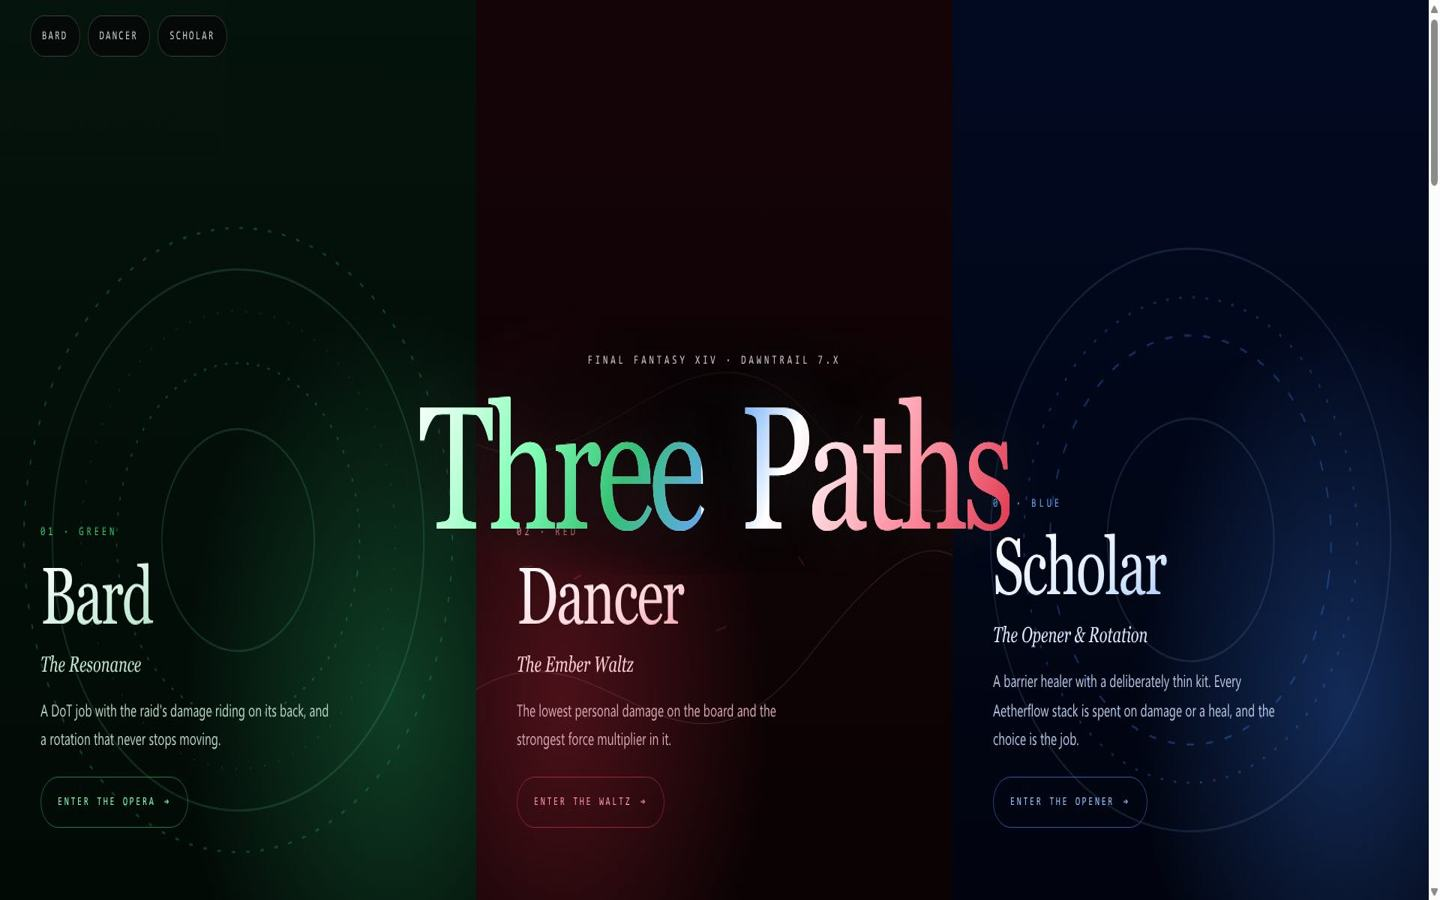
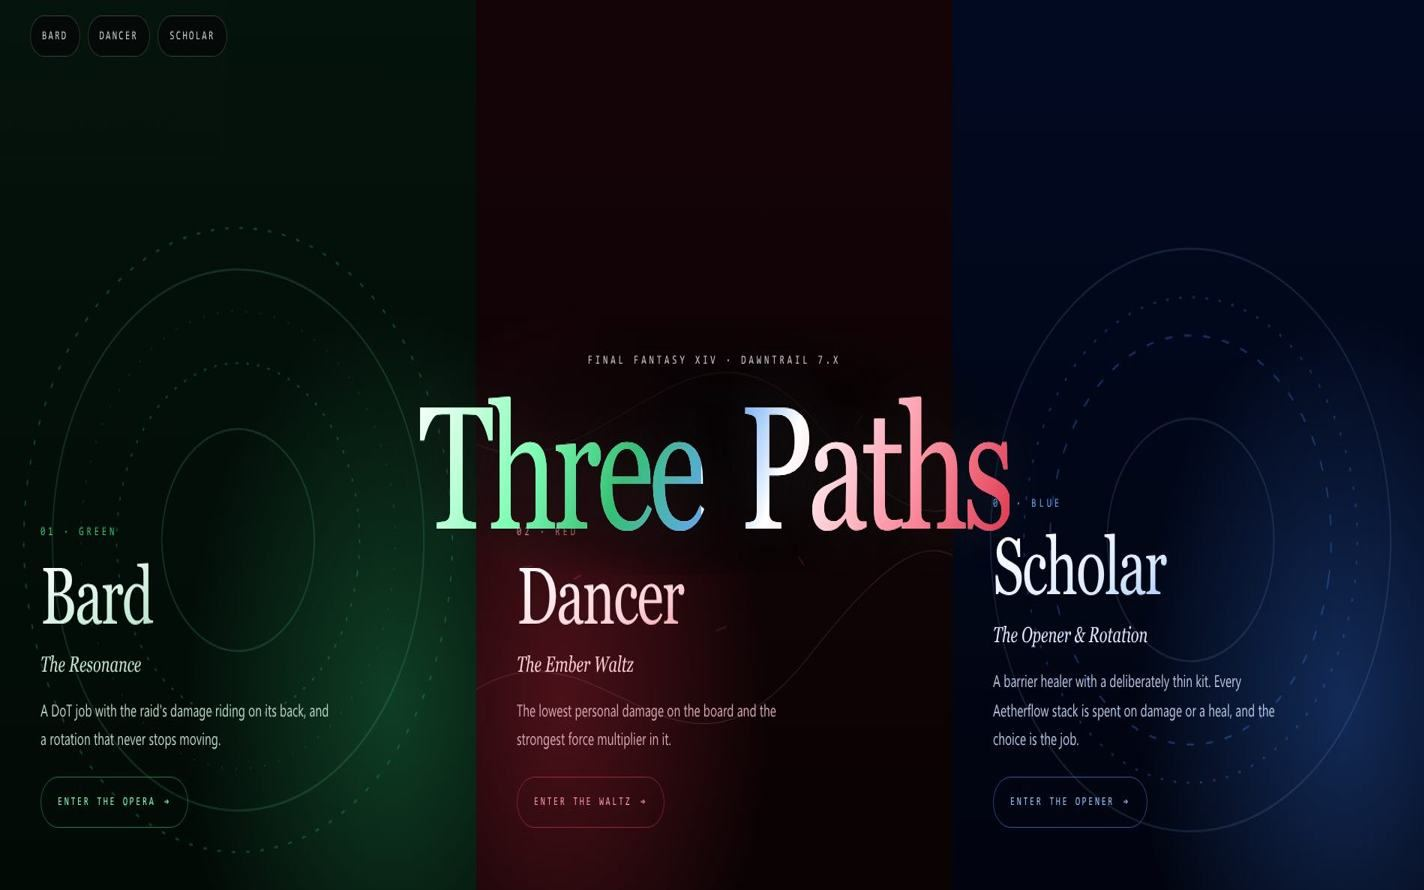
Crop browser scrollbars off the site screenshots

diff --git a/index.html b/index.html
@@ -252,7 +252,7 @@ footer .big:hover,footer .big:focus-visible{color:var(--accent)}
       </dl>
     </div>
     <div class="body reveal">
-      <figure class="fig"><a href="https://priestkos.github.io/succubus-den/" tabindex="-1" aria-hidden="true"><img src="shots/succubus-den.jpg" width="1440" height="900" alt="The Succubus Den home page: the neon club sign over a strip of in-game photographs" loading="eager" fetchpriority="low"></a><figcaption><span>priestkos.github.io/succubus-den</span><b data-f="ms">—</b></figcaption></figure>
+      <figure class="fig"><a href="https://priestkos.github.io/succubus-den/" tabindex="-1" aria-hidden="true"><img src="shots/succubus-den.jpg" width="1424" height="890" alt="The Succubus Den home page: the neon club sign over a strip of in-game photographs" loading="eager" fetchpriority="low"></a><figcaption><span>priestkos.github.io/succubus-den</span><b data-f="ms">—</b></figcaption></figure>
       <h3>Succubus Den</h3>
       <p class="lede">An FFXIV roleplay nightclub, open every Saturday</p>
       <p>The Succubus Den is an adult-themed roleplay nightclub in Final Fantasy XIV, at <strong>Materia · Sephirot · Mist · Ward 6 · Plot 32</strong>, open Saturdays from 8pm to 2am AEDT. The site carries the whole venue: live DJs, the courts, the casino and the bar.</p>
@@ -277,7 +277,7 @@ footer .big:hover,footer .big:focus-visible{color:var(--accent)}
       </dl>
     </div>
     <div class="body reveal">
-      <figure class="fig"><a href="https://priestkos.github.io/awesome-free-llm-apis/" tabindex="-1" aria-hidden="true"><img src="shots/awesome-free-llm-apis.jpg" width="1440" height="900" alt="Awesome Free LLM APIs: a narrow column of collapsible provider cards under a purple title" loading="eager" fetchpriority="low"></a><figcaption><span>priestkos.github.io/awesome-free-llm-apis</span><b data-f="ms">—</b></figcaption></figure>
+      <figure class="fig"><a href="https://priestkos.github.io/awesome-free-llm-apis/" tabindex="-1" aria-hidden="true"><img src="shots/awesome-free-llm-apis.jpg" width="1424" height="890" alt="Awesome Free LLM APIs: a narrow column of collapsible provider cards under a purple title" loading="eager" fetchpriority="low"></a><figcaption><span>priestkos.github.io/awesome-free-llm-apis</span><b data-f="ms">—</b></figcaption></figure>
       <h3>Free LLM APIs</h3>
       <p class="lede">Every LLM API with a free tier that stays free</p>
       <p>A directory of LLM APIs with permanent free tiers for text inference. Every provider is a collapsible card, each base URL copies in one click, and every link goes straight to that provider's API key page. All endpoints are OpenAI SDK-compatible unless a card says otherwise.</p>
@@ -302,7 +302,7 @@ footer .big:hover,footer .big:focus-visible{color:var(--accent)}
       </dl>
     </div>
     <div class="body reveal">
-      <figure class="fig"><a href="https://www.kosmos14.date/" tabindex="-1" aria-hidden="true"><img src="shots/kosmos.jpg" width="1440" height="900" alt="K'os Mos character page: the name set large in white and gold over a dark field with a red call to action" loading="eager" fetchpriority="low"></a><figcaption><span>www.kosmos14.date</span><b data-f="ms">—</b></figcaption></figure>
+      <figure class="fig"><a href="https://www.kosmos14.date/" tabindex="-1" aria-hidden="true"><img src="shots/kosmos.jpg" width="1424" height="890" alt="K'os Mos character page: the name set large in white and gold over a dark field with a red call to action" loading="eager" fetchpriority="low"></a><figcaption><span>www.kosmos14.date</span><b data-f="ms">—</b></figcaption></figure>
       <h3>K'os Mos</h3>
       <p class="lede">The Crimson Kitsune, a bard and mercenary</p>
       <p>The character page for K'os Mos in Final Fantasy XIV: courtesan, mercenary and bard, whose melodies carry as easily through chaotic frontlines as through dim, silk-draped parlours. She plays on <strong>Balmung and Tonberry</strong>, and the page says how to find her in game.</p>
@@ -327,7 +327,7 @@ footer .big:hover,footer .big:focus-visible{color:var(--accent)}
       </dl>
     </div>
     <div class="body reveal">
-      <figure class="fig"><a href="https://freemodels.kosmos14.date/" tabindex="-1" aria-hidden="true"><img src="shots/free-models-hub.jpg" width="1440" height="900" alt="Free Models Hub: the headline 'Four catalogs, zero cost' in white and orange above the catalog cards" loading="eager" fetchpriority="low"></a><figcaption><span>freemodels.kosmos14.date</span><b data-f="ms">—</b></figcaption></figure>
+      <figure class="fig"><a href="https://freemodels.kosmos14.date/" tabindex="-1" aria-hidden="true"><img src="shots/free-models-hub.jpg" width="1424" height="890" alt="Free Models Hub: the headline 'Four catalogs, zero cost' in white and orange above the catalog cards" loading="eager" fetchpriority="low"></a><figcaption><span>freemodels.kosmos14.date</span><b data-f="ms">—</b></figcaption></figure>
       <h3>Free Models Hub</h3>
       <p class="lede">Four catalogs of free models, zero cost</p>
       <p>One hub for four free-model catalogs: <strong>OpenRouter, OpenCode, Nous Portal and Command Code</strong>. Every model listed is priced at $0, the catalogs are refreshed daily, and the stealth models being served right now get a page of their own.</p>
@@ -352,7 +352,7 @@ footer .big:hover,footer .big:focus-visible{color:var(--accent)}
       </dl>
     </div>
     <div class="body reveal">
-      <figure class="fig"><a href="https://guide.kosmos14.date/" tabindex="-1" aria-hidden="true"><img src="shots/ff14-guides.jpg" width="1440" height="900" alt="Three Paths: three tall panels in green, red and blue for Bard, Dancer and Scholar under a large serif title" loading="eager" fetchpriority="low"></a><figcaption><span>guide.kosmos14.date</span><b data-f="ms">—</b></figcaption></figure>
+      <figure class="fig"><a href="https://guide.kosmos14.date/" tabindex="-1" aria-hidden="true"><img src="shots/ff14-guides.jpg" width="1424" height="890" alt="Three Paths: three tall panels in green, red and blue for Bard, Dancer and Scholar under a large serif title" loading="eager" fetchpriority="low"></a><figcaption><span>guide.kosmos14.date</span><b data-f="ms">—</b></figcaption></figure>
       <h3>Three Paths</h3>
       <p class="lede">Bard, Dancer and Scholar for Dawntrail</p>
       <p>Self-contained guide sites for three FFXIV Dawntrail jobs: <strong>Bard</strong>, the resonance; <strong>Dancer</strong>, the ember waltz; and <strong>Scholar</strong>, the opener and rotation. Each guide is a self-contained page.</p>
@@ -377,7 +377,7 @@ footer .big:hover,footer .big:focus-visible{color:var(--accent)}
       </dl>
     </div>
     <div class="body reveal">
-      <figure class="fig"><a href="https://fishing.kosmos14.date/" tabindex="-1" aria-hidden="true"><img src="shots/ocean-fishing.jpg" width="1440" height="900" alt="Ocean Fishing: a sea-blue page with light rays, the serif title and the next voyage's route cards" loading="eager" fetchpriority="low"></a><figcaption><span>fishing.kosmos14.date</span><b data-f="ms">—</b></figcaption></figure>
+      <figure class="fig"><a href="https://fishing.kosmos14.date/" tabindex="-1" aria-hidden="true"><img src="shots/ocean-fishing.jpg" width="1424" height="890" alt="Ocean Fishing: a sea-blue page with light rays, the serif title and the next voyage's route cards" loading="eager" fetchpriority="low"></a><figcaption><span>fishing.kosmos14.date</span><b data-f="ms">—</b></figcaption></figure>
       <h3>Ocean Fishing</h3>
       <p class="lede">Both voyage schedules and all 662 fish</p>
       <p>A reference and planner for FFXIV Ocean Fishing aboard <strong>The Endeavor</strong>: both voyage schedules, every one of the 662 fish with its bite times, the rewards, and a live countdown.</p>
@@ -402,7 +402,7 @@ footer .big:hover,footer .big:focus-visible{color:var(--accent)}
       </dl>
     </div>
     <div class="body reveal">
-      <figure class="fig"><a href="https://frontline.kosmos14.date/" tabindex="-1" aria-hidden="true"><img src="shots/frontlines.jpg" width="1440" height="900" alt="Frontlines: the title 'Frontlines, two ways in' above two covers, a cream woodblock codex and a dark plotting table" loading="eager" fetchpriority="low"></a><figcaption><span>frontline.kosmos14.date</span><b data-f="ms">—</b></figcaption></figure>
+      <figure class="fig"><a href="https://frontline.kosmos14.date/" tabindex="-1" aria-hidden="true"><img src="shots/frontlines.jpg" width="1424" height="890" alt="Frontlines: the title 'Frontlines, two ways in' above two covers, a cream woodblock codex and a dark plotting table" loading="eager" fetchpriority="low"></a><figcaption><span>frontline.kosmos14.date</span><b data-f="ms">—</b></figcaption></figure>
       <h3>Frontlines</h3>
       <p class="lede">The Frontline reference, two ways in</p>
       <p>The FFXIV Frontline reference in two forms. <strong>The Woodblock Codex</strong> is the unabridged archive, every mechanic, map, job, named play and macro in seven documents; <strong>the Plotting Table</strong> is the briefing, written up in eight plates.</p>
